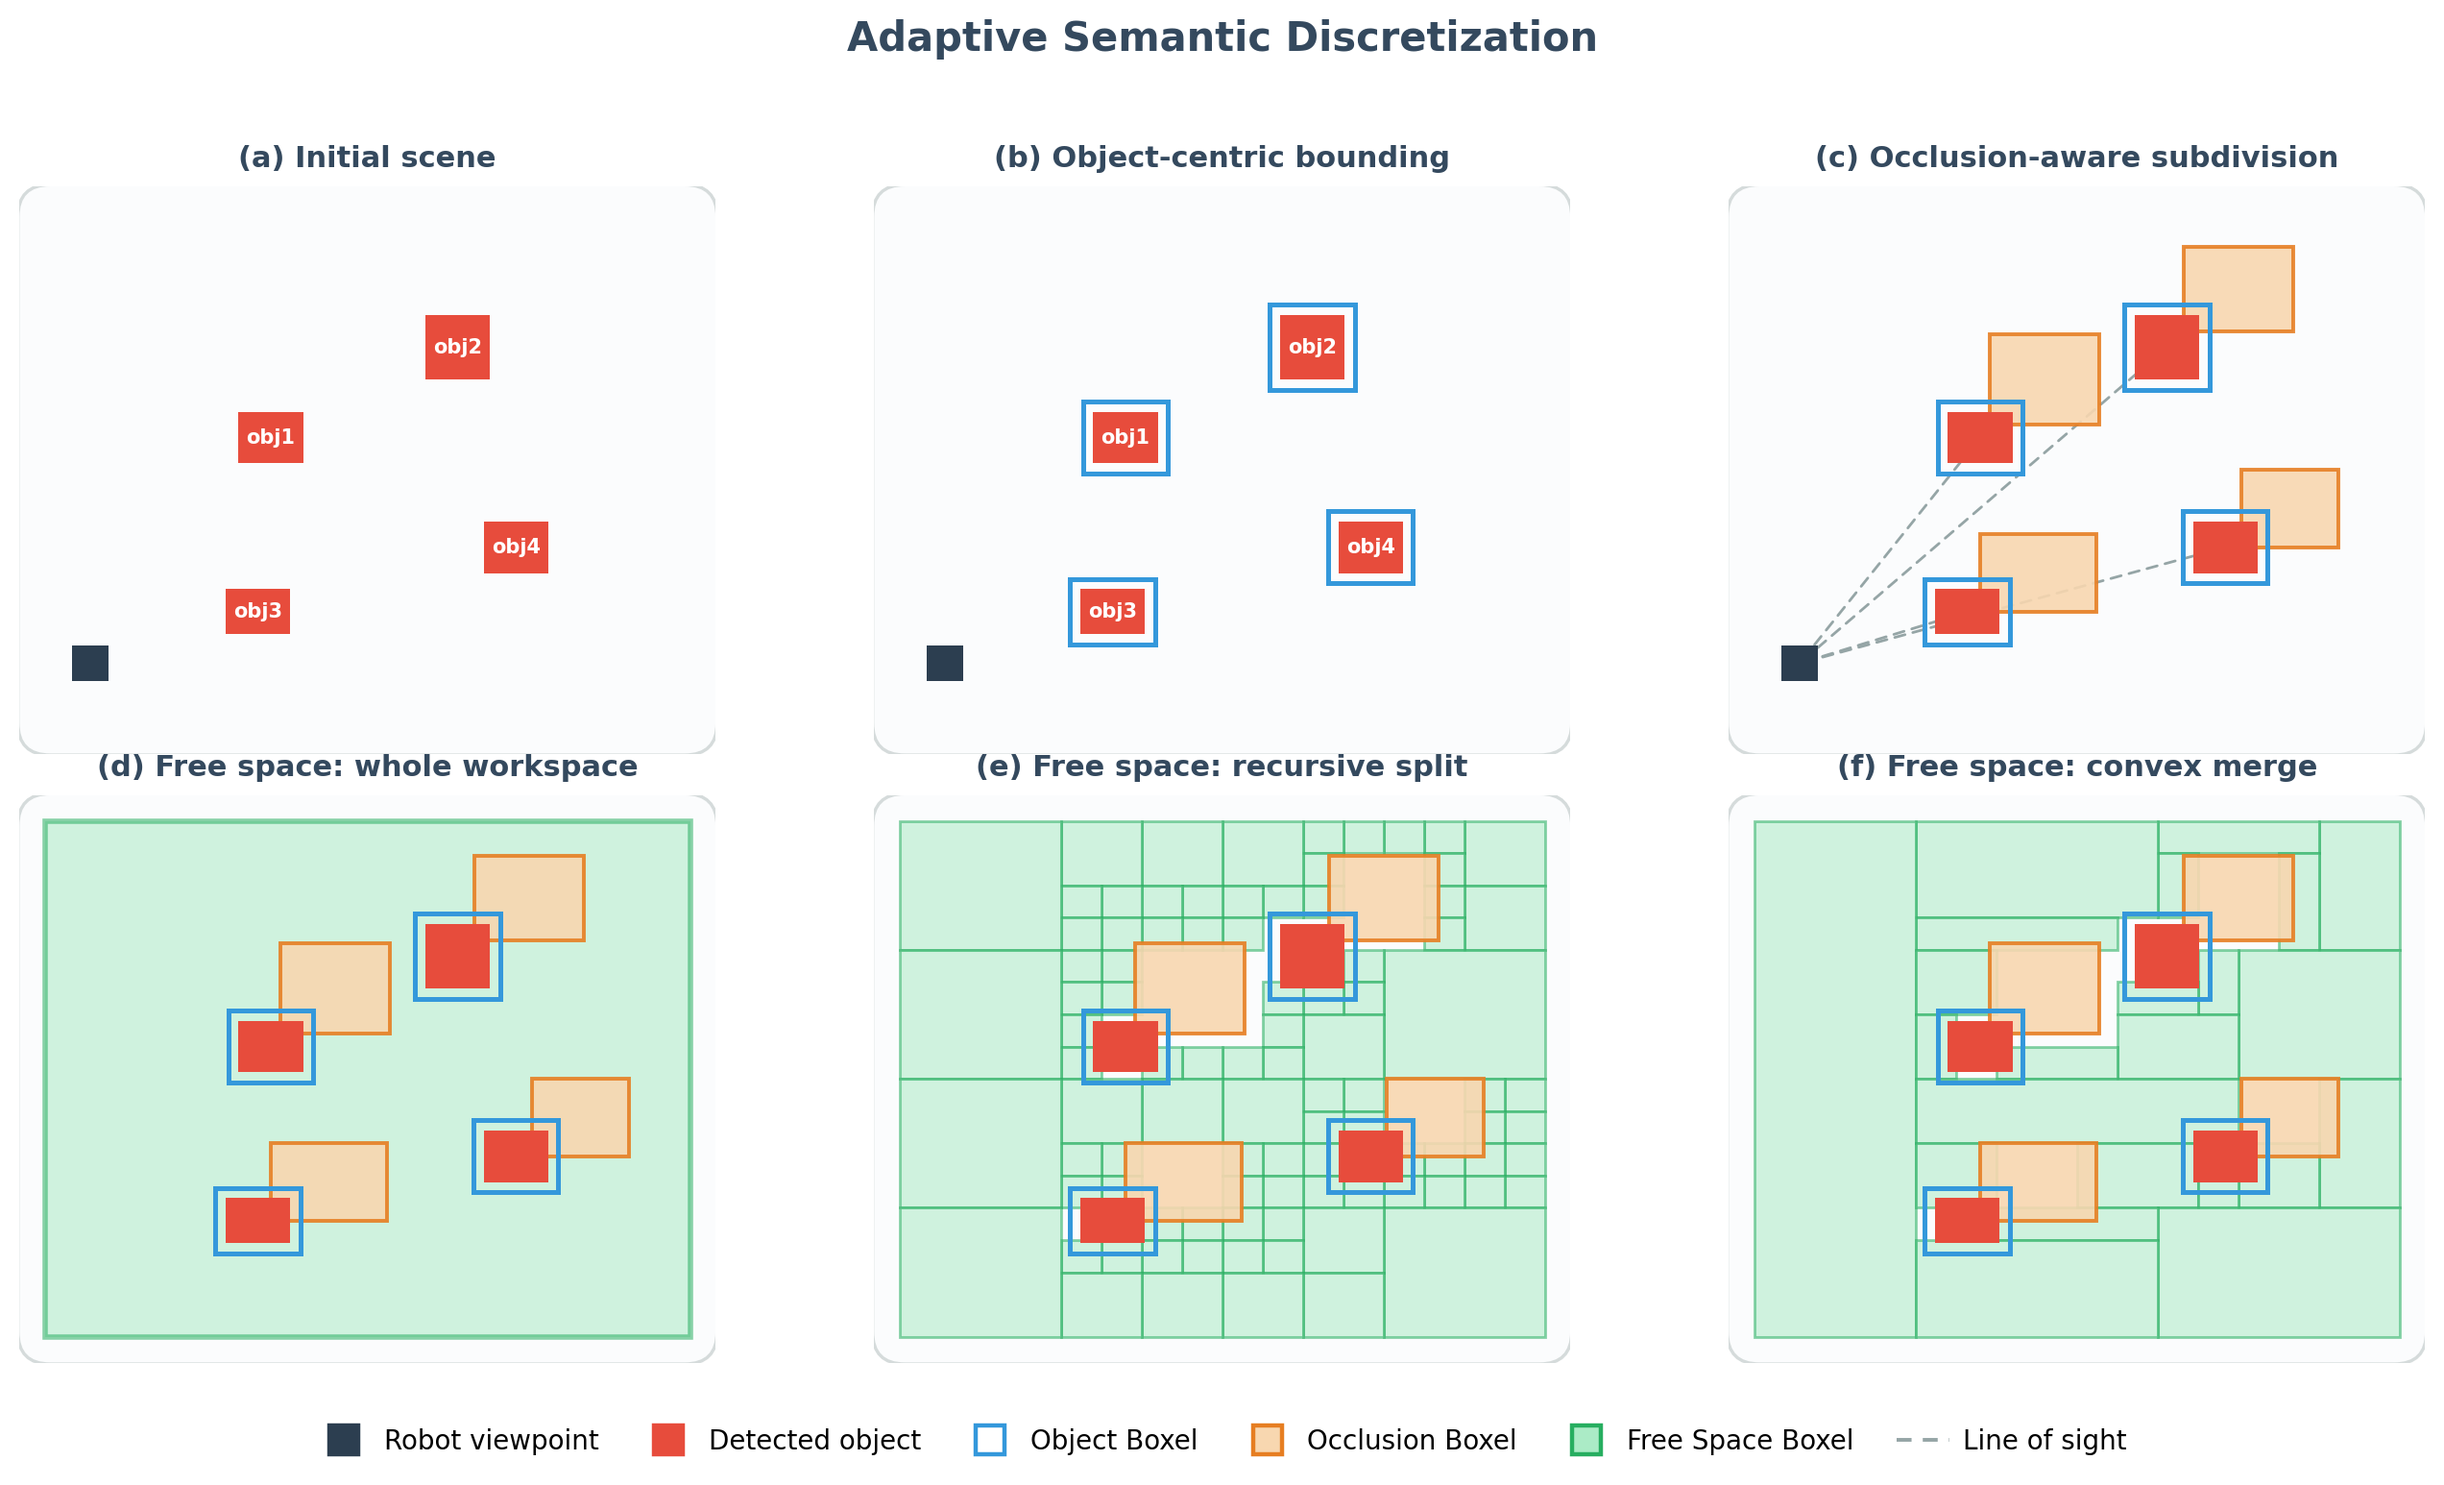
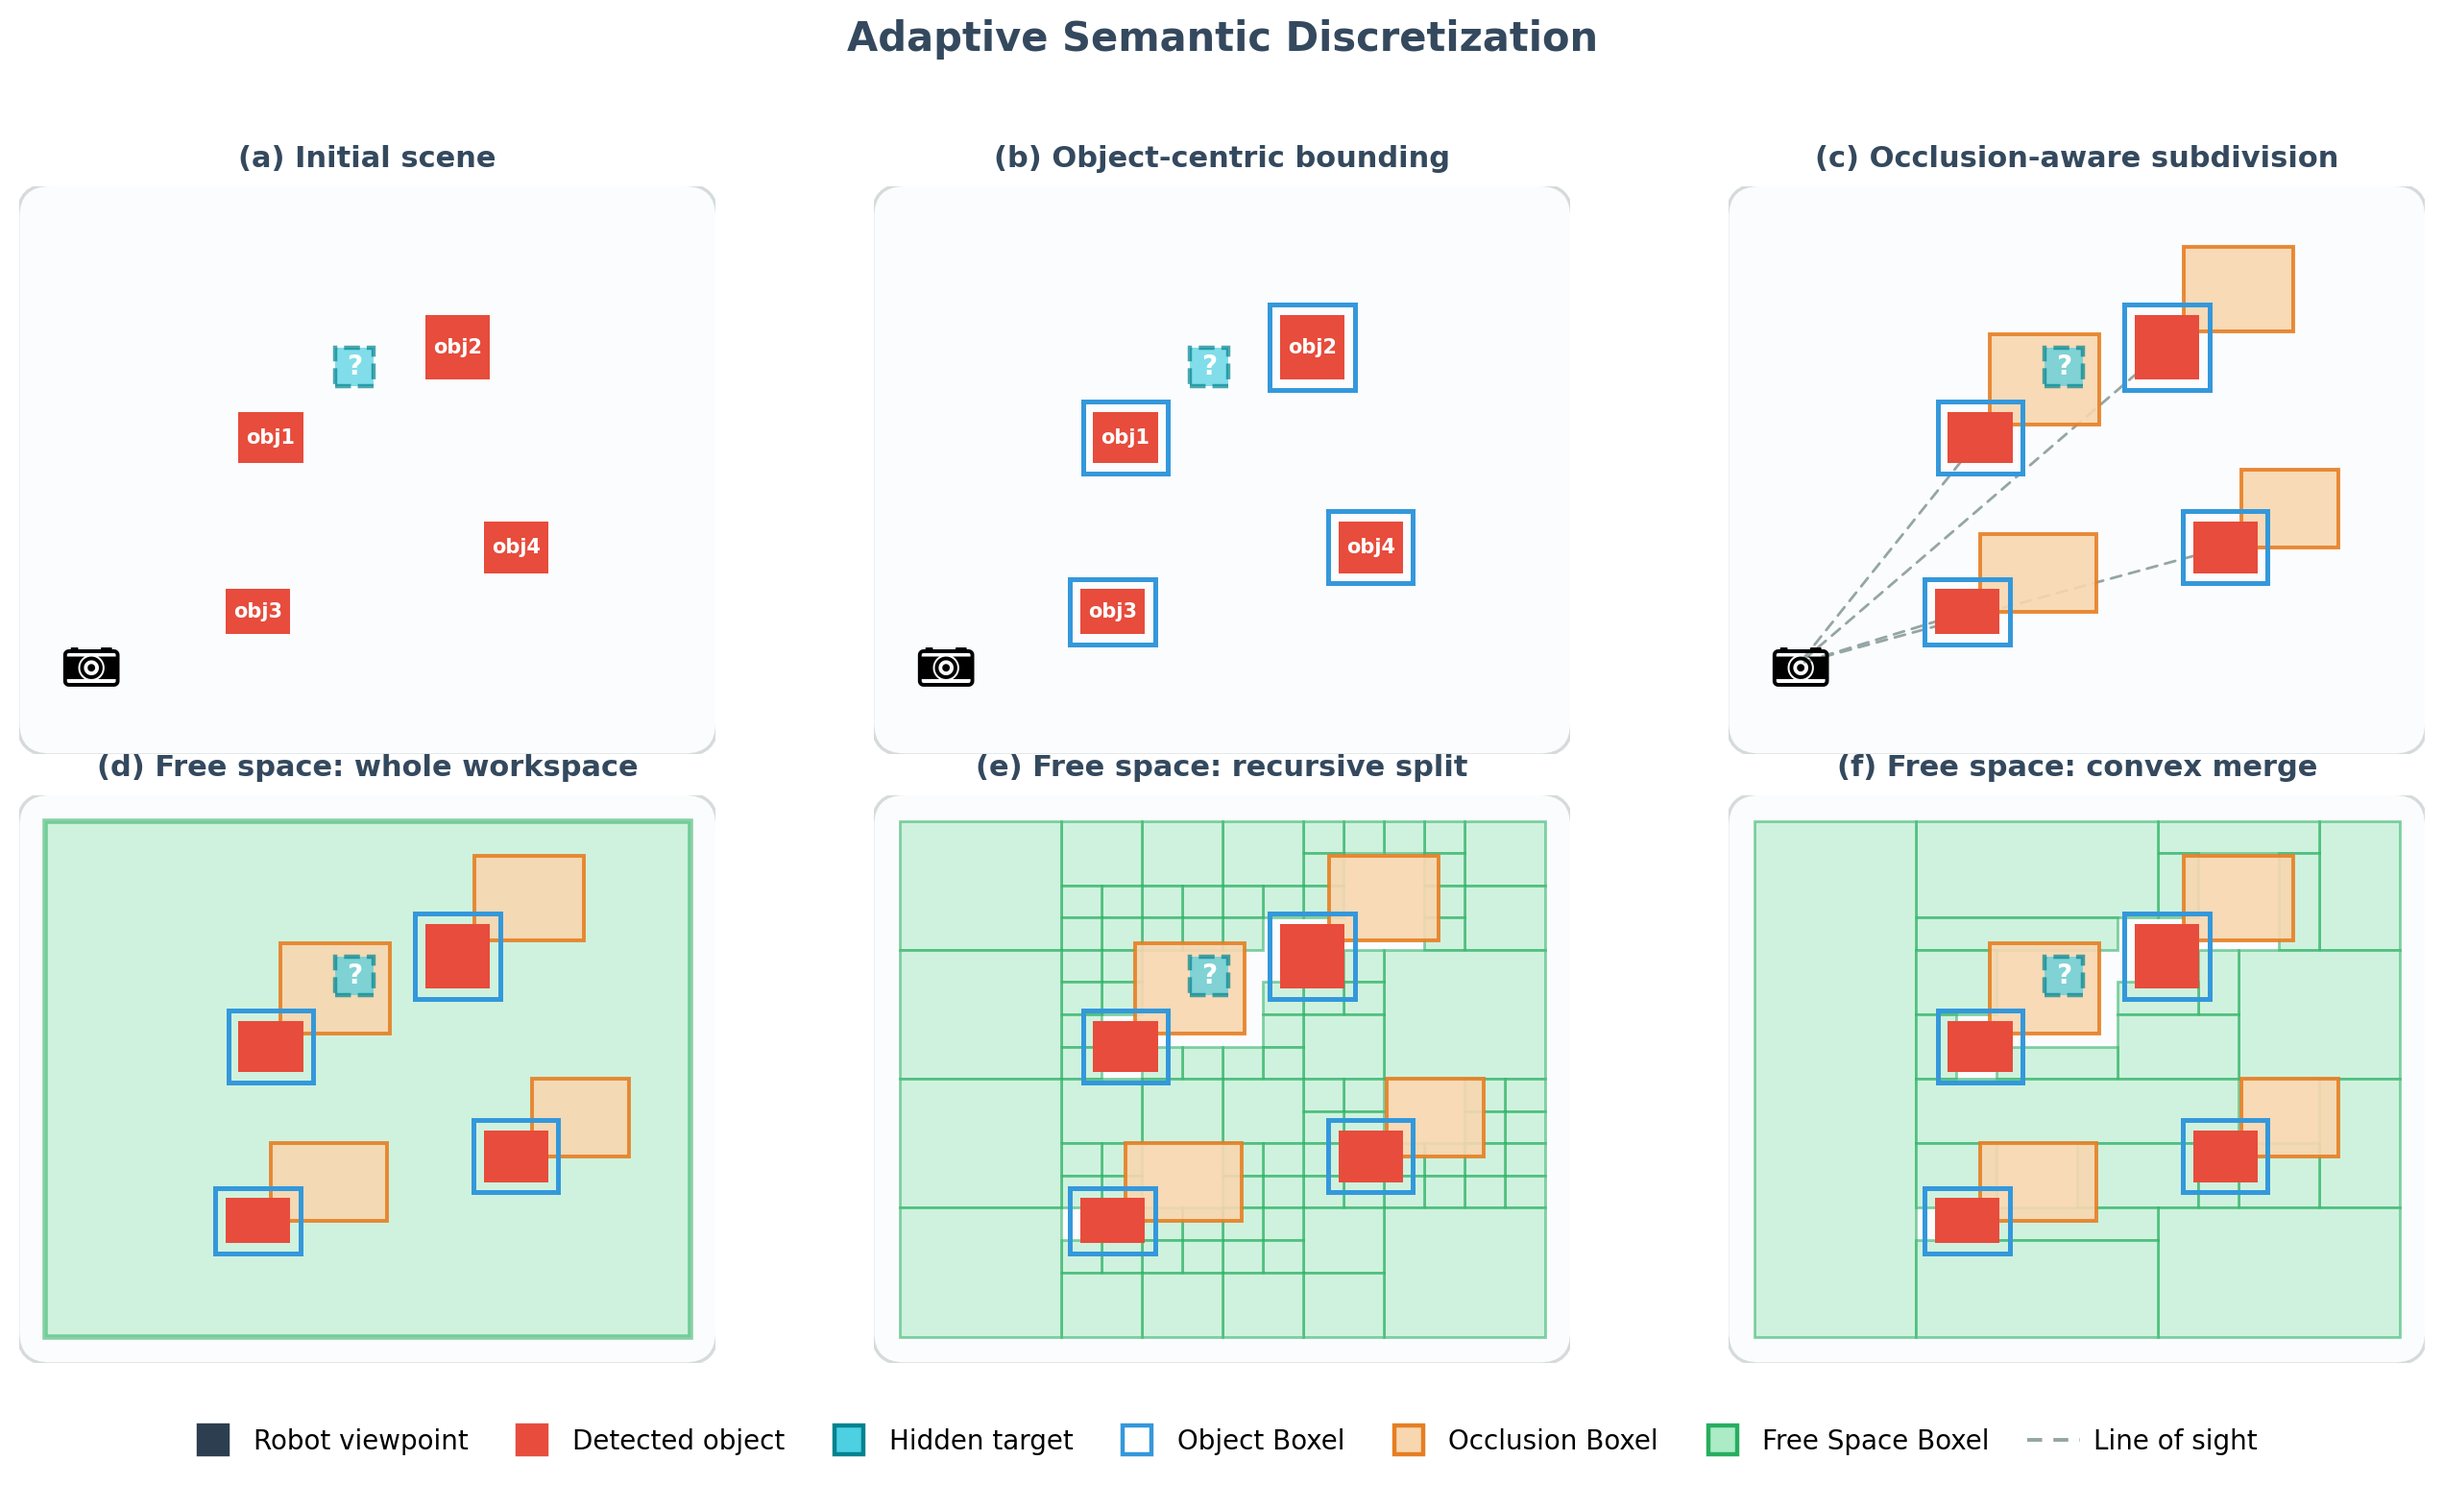
#176: 2D discretization schematic -- add camera viewpoint marker and hidden-target object

diff --git a/tools/render_boxelization_schematic.py b/tools/render_boxelization_schematic.py
@@ -28,8 +28,28 @@ import os
 import matplotlib
 matplotlib.use("Agg")  # headless: just save a PNG
 import matplotlib.pyplot as plt
+from matplotlib import font_manager as _fm
 from matplotlib.patches import FancyBboxPatch, Rectangle, FancyArrowPatch
 from matplotlib.lines import Line2D
+
+# Camera emoji for the robot viewpoint. matplotlib/Agg renders it as a clean
+# monochrome glyph from Segoe UI Emoji (Windows). If the font is unavailable
+# (e.g. a bare WSL env), EMOJI_PROP stays None and we fall back to a dark square.
+CAMERA = "\U0001F4F7"  # camera emoji
+
+
+def _emoji_prop():
+    for path in (r"C:\Windows\Fonts\seguiemj.ttf",
+                 "/mnt/c/Windows/Fonts/seguiemj.ttf"):
+        if os.path.exists(path):
+            try:
+                return _fm.FontProperties(fname=path)
+            except Exception:
+                pass
+    return None
+
+
+EMOJI_PROP = _emoji_prop()
 
 # ---------------------------------------------------------------- palette
 C_VIEW   = "#2c3e50"   # robot viewpoint
@@ -43,6 +63,8 @@ C_LOS    = "#95a5a6"   # line of sight
 C_PANEL  = "#fbfcfd"   # panel background
 C_PANELE = "#d5dbdb"   # panel border
 C_TITLE  = "#34495e"
+C_HIDE_F = "#4dd0e1"   # hidden target fill (cyan)
+C_HIDE_E = "#00838f"   # hidden target edge
 
 # ---------------------------------------------------------------- scene (units)
 W, H = 10.0, 8.0
@@ -62,6 +84,9 @@ OCCLUSIONS = [
     (4.4, 2.4, 1.8, 1.2),
     (8.3, 3.4, 1.5, 1.2),
 ]
+# the hidden target: sits inside obj1's occlusion (in its shadow), so the camera
+# cannot see it -- the robot must reason about the shadow to find it. (cx, cy, s)
+HIDDEN = (4.8, 5.6, 0.6)
 
 
 def _rect_of(c):
@@ -148,8 +173,12 @@ def _frame(ax, title):
 
 def _view(ax):
     x, y = VIEW
-    ax.add_patch(Rectangle((x - 0.28, y - 0.28), 0.56, 0.56,
-                           facecolor=C_VIEW, edgecolor="none", zorder=6))
+    if EMOJI_PROP is not None:
+        ax.text(x, y, CAMERA, fontproperties=EMOJI_PROP, fontsize=20,
+                ha="center", va="center", zorder=8)
+    else:
+        ax.add_patch(Rectangle((x - 0.28, y - 0.28), 0.56, 0.56,
+                               facecolor=C_VIEW, edgecolor="none", zorder=6))
 
 
 def _objects(ax, labels=True):
@@ -181,6 +210,15 @@ def _los(ax):
                                      linewidth=1.0, zorder=2))
 
 
+def _hidden(ax):
+    cx, cy, s = HIDDEN
+    ax.add_patch(Rectangle((cx - s / 2, cy - s / 2), s, s, facecolor=C_HIDE_F,
+                           edgecolor=C_HIDE_E, linewidth=1.6, linestyle="--",
+                           alpha=0.7, zorder=4.5))
+    ax.text(cx, cy, "?", color="white", ha="center", va="center",
+            fontsize=10, fontweight="bold", zorder=5)
+
+
 def _free(ax, cells, lw=1.0):
     for rx, ry, rw, rh in cells:
         ax.add_patch(Rectangle((rx, ry), rw, rh, facecolor=C_FREE_F,
@@ -200,32 +238,34 @@ def main():
     a, b, c, d, e, f = axes.flat
 
     # (a) initial scene
-    _frame(a, "(a) Initial scene"); _view(a); _objects(a)
+    _frame(a, "(a) Initial scene"); _view(a); _objects(a); _hidden(a)
 
     # (b) object bounding
     _frame(b, "(b) Object-centric bounding"); _view(b); _objects(b); _objboxels(b)
+    _hidden(b)
 
     # (c) occlusion subdivision
     _frame(c, "(c) Occlusion-aware subdivision"); _view(c)
-    _los(c); _occlusions(c); _objects(c, labels=False); _objboxels(c)
+    _los(c); _occlusions(c); _objects(c, labels=False); _objboxels(c); _hidden(c)
 
     # (d) free space: whole workspace one cell
     _frame(d, "(d) Free space: whole workspace")
     _free(d, [(0.0, 0.0, W, H)], lw=2.0)
-    _occlusions(d); _objects(d, labels=False); _objboxels(d)
+    _occlusions(d); _objects(d, labels=False); _objboxels(d); _hidden(d)
 
     # (e) free space: recursive split
     _frame(e, "(e) Free space: recursive split")
-    _free(e, free_split); _occlusions(e); _objects(e, labels=False); _objboxels(e)
+    _free(e, free_split); _occlusions(e); _objects(e, labels=False); _objboxels(e); _hidden(e)
 
     # (f) free space: convex merge (final)
     _frame(f, "(f) Free space: convex merge")
-    _free(f, free_merged); _occlusions(f); _objects(f, labels=False); _objboxels(f)
+    _free(f, free_merged); _occlusions(f); _objects(f, labels=False); _objboxels(f); _hidden(f)
 
     # legend
     handles = [
         ("Robot viewpoint", C_VIEW, "s", None),
         ("Detected object", C_OBJ, "s", None),
+        ("Hidden target", C_HIDE_F, "s", C_HIDE_E),
         ("Object Boxel", "white", "s", C_OBJBOX),
         ("Occlusion Boxel", C_OCC_F, "s", C_OCC_E),
         ("Free Space Boxel", C_FREE_F, "s", C_FREE_E),
@@ -235,9 +275,9 @@ def main():
                       markeredgewidth=1.6) for _, fc, _, ec in handles]
     proxies.append(Line2D([0], [0], linestyle=(0, (4, 3)), color=C_LOS, linewidth=1.4))
     labels = [h[0] for h in handles] + ["Line of sight"]
-    fig.legend(proxies, labels, loc="lower center", ncol=6, frameon=False,
+    fig.legend(proxies, labels, loc="lower center", ncol=7, frameon=False,
                fontsize=10, bbox_to_anchor=(0.5, -0.01),
-               handletextpad=0.5, columnspacing=1.6)
+               handletextpad=0.5, columnspacing=1.4)
 
     fig.suptitle("Adaptive Semantic Discretization", fontsize=15,
                  fontweight="bold", color=C_TITLE, y=0.99)
